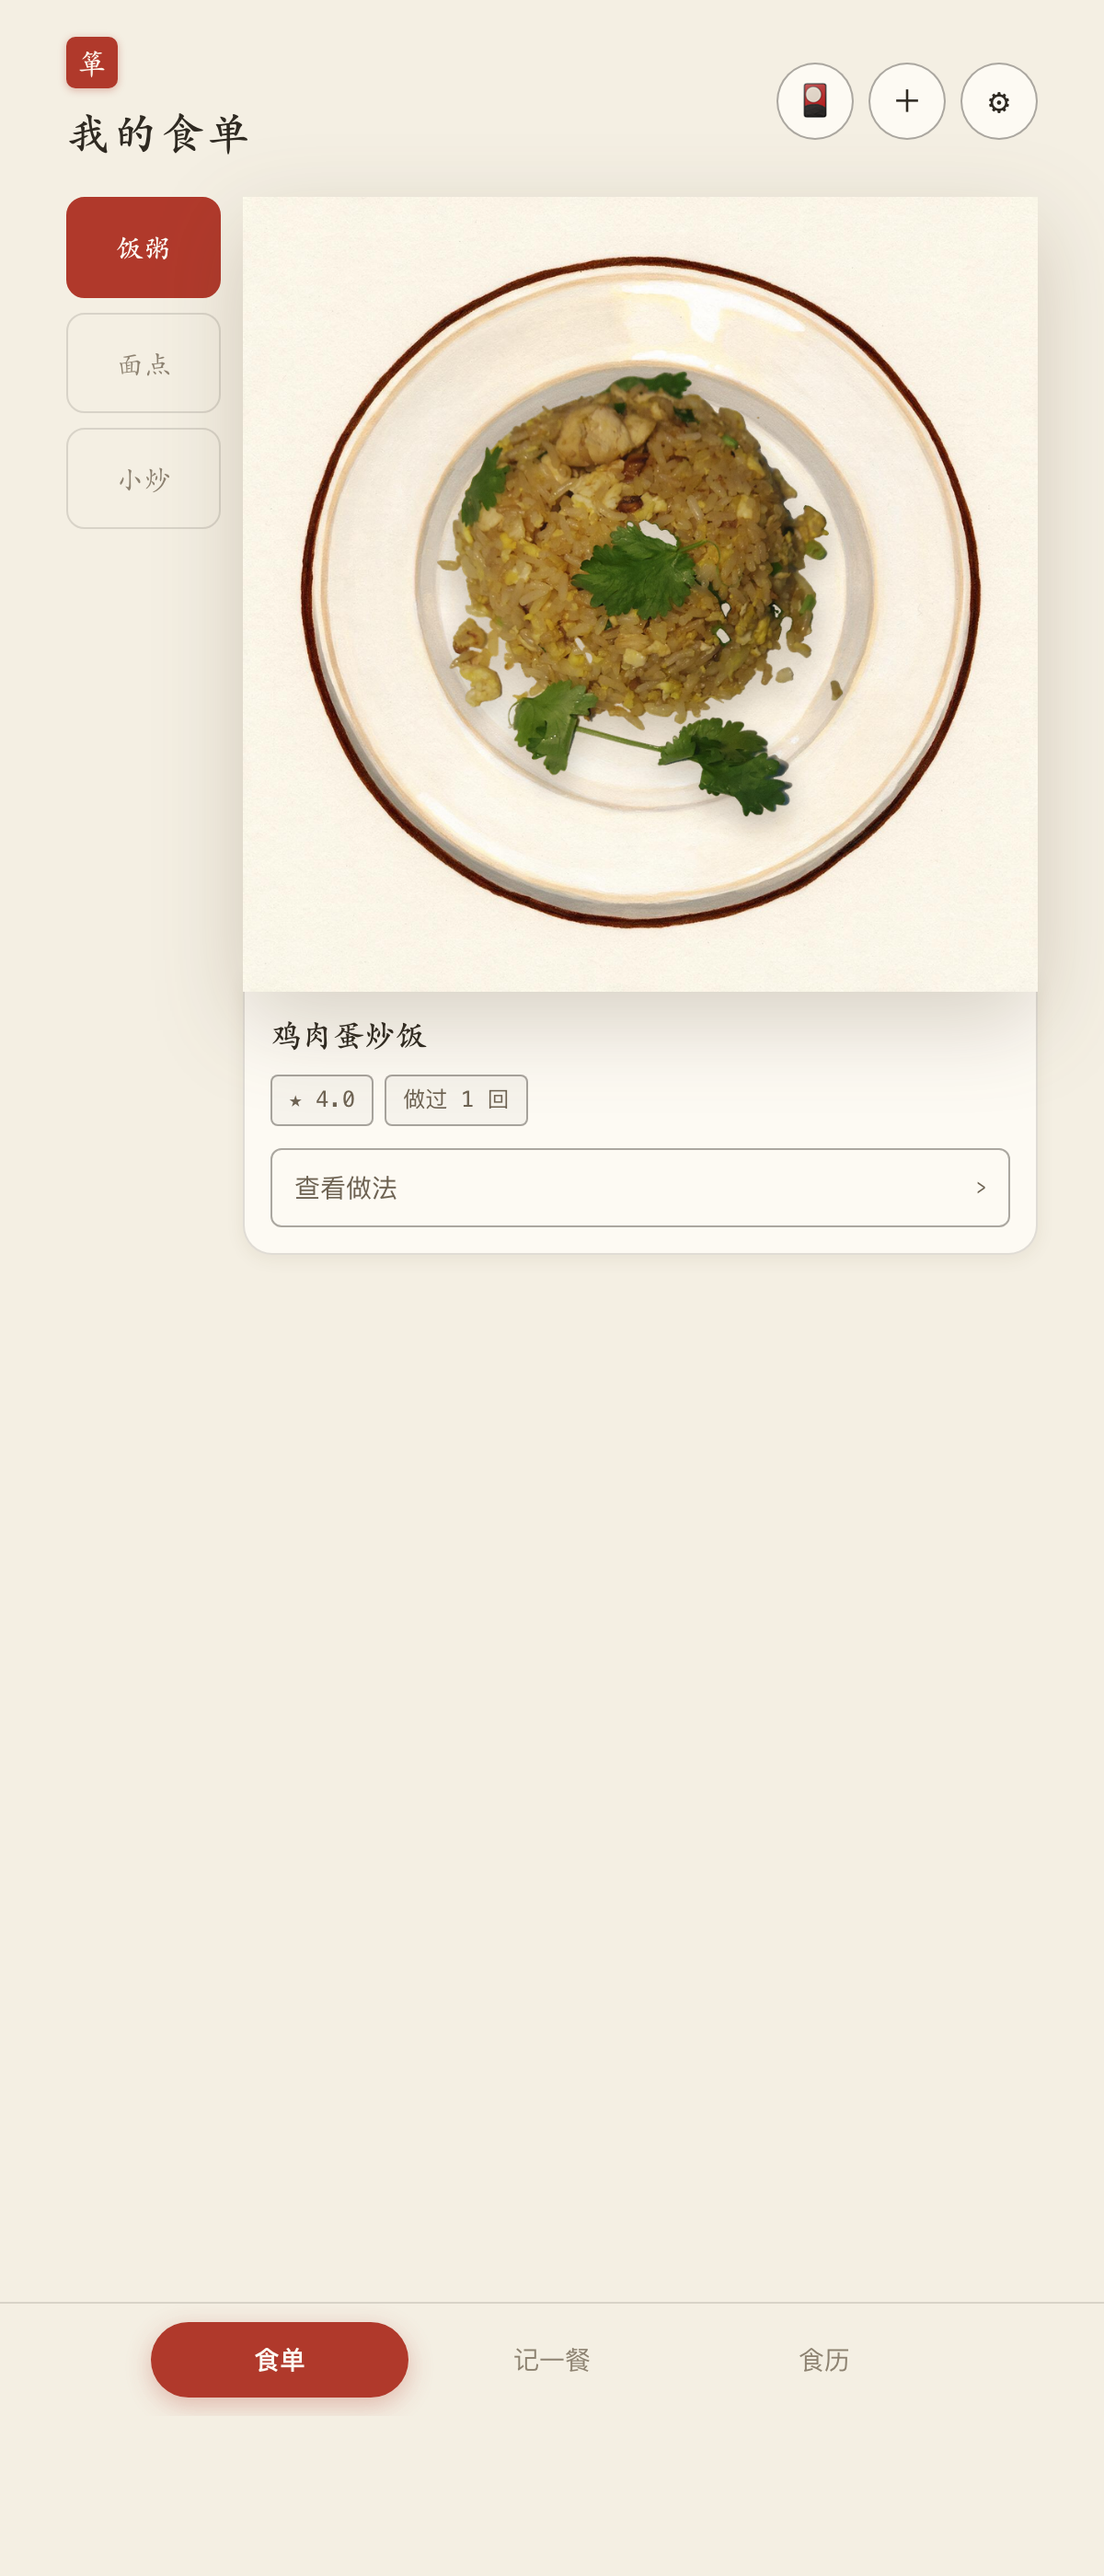
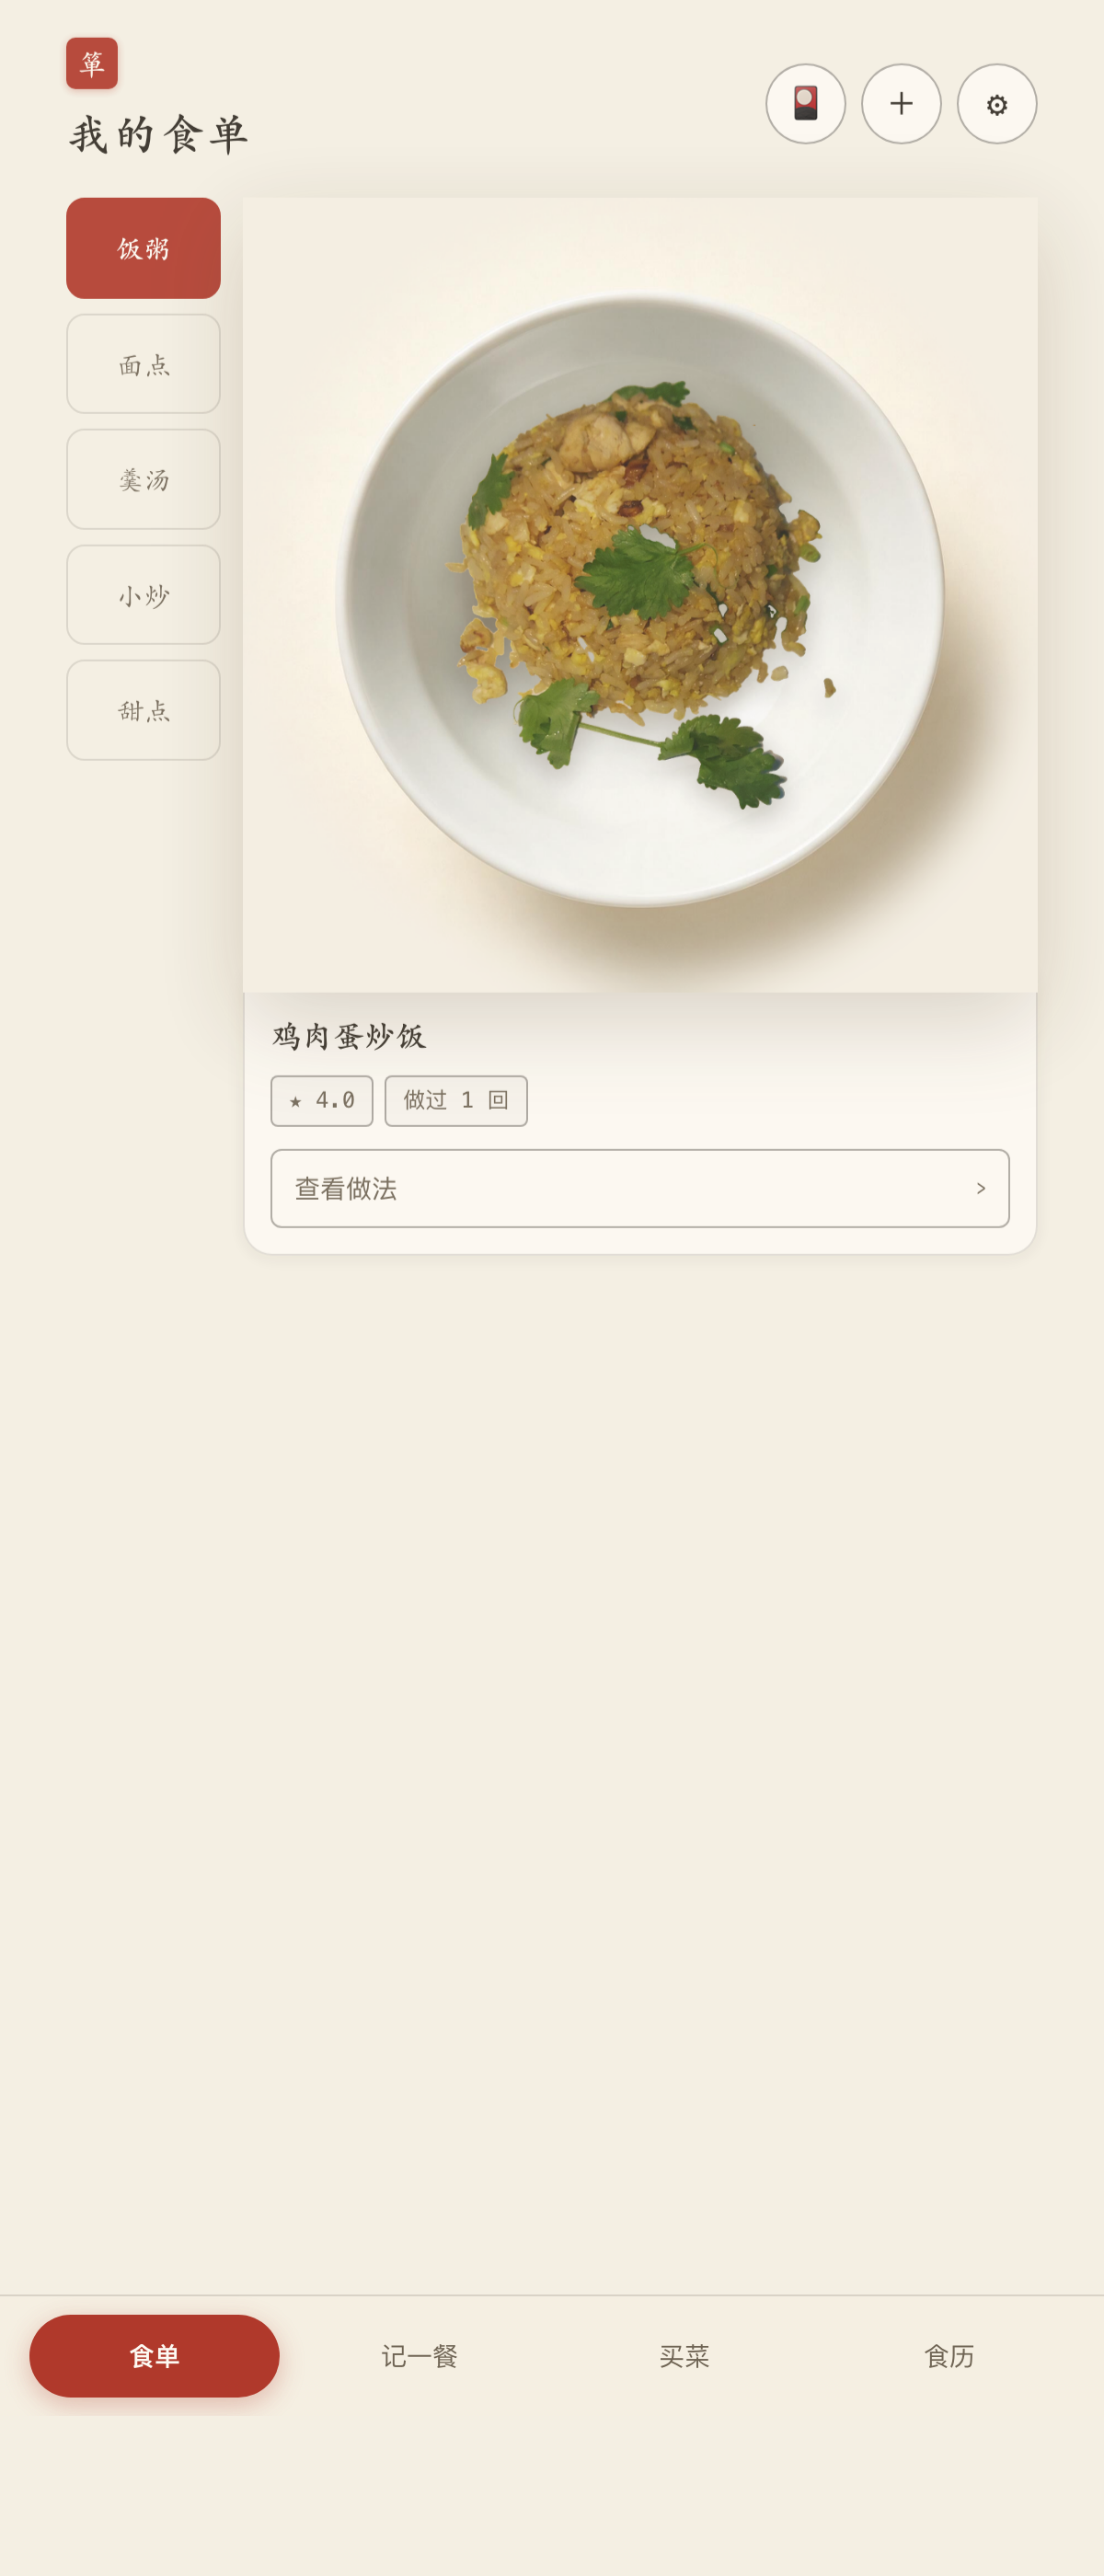
R12: demo 食单 — 4 道真实教程菜 + 摄影封面 + 命名典故
- 可乐鸡翅/番茄蛋花汤/冰糖炖雪梨/红烧肉：下厨房真实菜谱经 AI 整理入库（source 带原链接，kcal/耗时/难度全）
- Seedream 俯拍成品封面 4 张（白瓷盘/深碗/炖盅，暖米白底与卡片美学一致）
- 食材图标共享库扩至 20 项（姜葱蒜八角等跨菜复用）
- README 新增「命名典故」：一箪食/食单/朱批/翻牌子/传旨/食历 出处一览
- examples/ 同步 7 道示例菜；README menu 截图更新
- 已知：步骤插画因方舟余额耗尽中断，充值后详情页一键补齐

diff --git a/examples/recipes/r38402.md b/examples/recipes/r38402.md
@@ -1,0 +1,35 @@
+---
+id: r38402
+name: 红烧肉
+category: 小炒
+source: https://m.xiachufang.com/recipe/101714088/
+created: '2026-07-19'
+kcal: 1650
+---
+
+## 食材
+
+- 带皮五花肉 | 500克
+- 姜片 | 适量
+- 料酒 | 1勺
+- 葱段 | 2段
+- 八角 | 2颗
+- 老抽 | 1勺
+- 生抽 | 2勺
+- 黄冰糖 | 20克
+- 食用油 | 少许
+- 热水 | 没过肉量
+
+## 步骤
+
+1. 五花肉切麻将块，冷水下锅加姜片、料酒焯水，撇净浮沫后捞出。
+2. 锅里少油，下五花肉小火煸出油脂至微黄，加姜片、葱段、八角炒香。
+3. 加老抽提色、生抽提味和黄冰糖，倒热水没过肉，大火烧开。
+4. 转小火加盖慢炖1小时至筷子能轻松插入。
+5. 开盖大火收汁，收到汤汁浓亮裹肉即可，注意别粘底。
+
+## 贴士
+
+- 肉色发亮有光泽的关键是用黄冰糖
+- 免炒糖色，靠煸油和黄冰糖上色更省事
+- 收汁时当心粘底

diff --git a/examples/recipes/r70362.md b/examples/recipes/r70362.md
@@ -1,0 +1,33 @@
+---
+id: r70362
+name: 可乐鸡翅
+category: 小炒
+source: https://m.xiachufang.com/recipe/1000229/
+created: '2026-07-19'
+kcal: 760
+---
+
+## 食材
+
+- 鸡翅中 | 8个
+- 可乐 | 250毫升
+- 姜 | 适量（姜片+姜块）
+- 葱 | 适量
+- 蒜 | 适量
+- 八角 | 1颗
+- 生抽 | 1勺
+- 料酒 | 1勺
+- 食用油 | 少许
+- 白芝麻 | 少许
+
+## 步骤
+
+1. 鸡翅中背面各划两刀，加姜片、料酒冷水下锅焯水，撇去浮沫后捞出洗净控干。
+2. 锅内放少许油，中火将鸡翅煎至两面金黄。
+3. 下姜葱蒜和一颗八角翻炒出香，倒入250毫升可乐没过鸡翅，加一勺生抽，大火烧开撇去浮沫。
+4. 转中小火炖煮20分钟，捞出姜葱蒜和八角。
+5. 转大火收汁至浓稠挂壁，出锅撒白芝麻即可。
+
+## 贴士
+
+- 收汁时要勤翻动，当心粘底糊锅

diff --git a/examples/recipes/r9338.md b/examples/recipes/r9338.md
@@ -1,0 +1,32 @@
+---
+id: r9338
+name: 番茄蛋花汤
+category: 羹汤
+source: https://m.xiachufang.com/recipe/107236484/
+created: '2026-07-19'
+kcal: 160
+---
+
+## 食材
+
+- 番茄 | 2个（约250克）
+- 鸡蛋 | 2个
+- 食用油 | 少许
+- 清水或高汤 | 2碗
+- 盐 | 适量
+- 糖 | 少许
+- 白胡椒粉 | 少许
+- 香油 | 几滴
+- 葱花 | 少许
+
+## 步骤
+
+1. 番茄去皮切小块，鸡蛋打散备用。
+2. 热锅少许油，下番茄块中火炒出汁、炒到软烂。
+3. 加两碗清水或高汤烧开，用盐、一点糖、白胡椒粉调味。
+4. 保持汤微沸，转圈慢慢淋入蛋液，蛋花浮起立刻关火，不要过度搅拌。
+5. 出锅淋几滴香油、撒上葱花即可。
+
+## 贴士
+
+- 蛋液要在汤沸腾时慢慢淋入，蛋花才又薄又嫩。

diff --git a/examples/recipes/r74756.md b/examples/recipes/r74756.md
@@ -1,0 +1,25 @@
+---
+id: r74756
+name: 冰糖炖雪梨
+category: 甜点
+source: https://m.xiachufang.com/recipe/107079356/
+created: '2026-07-19'
+kcal: 180
+---
+
+## 食材
+
+- 雪梨 | 1个
+- 黄冰糖 | 15克
+- 清水 | 适量（切块煮法用）
+
+## 步骤
+
+1. 雪梨洗净，从顶部切开当盖，挖去梨核
+2. 梨中间放入黄冰糖，盖回梨盖，放进深碗
+3. 蒸锅水开后放入，隔水小火炖1个半小时，炖到梨完全软化透亮
+4. 连碗里析出的梨汁一起趁热吃
+
+## 贴士
+
+- 也可以把雪梨切块，和冰糖加水直接小火煮1小时

diff --git a/README.md b/README.md
@@ -51,6 +51,19 @@ data/
 
 抠图默认 `isnet-general-use` 模型，追求更高质量：`YIDANSHI_MODEL=birefnet-general`（~930MB）。
 
+## 命名典故
+
+整个产品是一套「私人食单手账」的叙事——你是这份食单的主人：
+
+| 名字 | 出处 |
+|---|---|
+| **一箪食** | 《论语·雍也》「一箪食，一瓢饮，在陋巷……不改其乐」——一个人也要把简单饭菜吃出快乐 |
+| **食单** | 致敬袁枚《随园食单》，中文世界最有名的私人菜谱集；分类「饭粥/面点/羹汤/小炒/甜点」也是随园章法 |
+| **朱批** | 古时皇帝用朱砂红笔在奏折上批示、文人用朱笔在书边写心得。这里：菜谱正文是墨字，你每次做完记下的经验（"腌15分钟更嫩"）化作教程卡上的红批注，越做越厚 |
+| **翻牌子** | 宫廷选膳梗——今天吃什么，翻一张牌决定（可以约束：7 天不重样、30 分钟内、只要简单的、优先用冰箱食材） |
+| **传旨** | 把点菜链接发给亲友，对方勾好菜「传旨」，圣旨送达你的御膳房（食单页收件箱） |
+| **食历** | 吃饭的日历——你做过的每一顿，按日排开，周有小结，月有食单卡 |
+
 ## 灵感
 
 来自微信小程序「我的Taste」（by 抖音博主 AB）——它展示的是作者自己的菜谱，而一箪食让每个人都能拥有自己的版本。微信小程序版移植评估见 [docs/miniprogram-eval.md](docs/miniprogram-eval.md)。